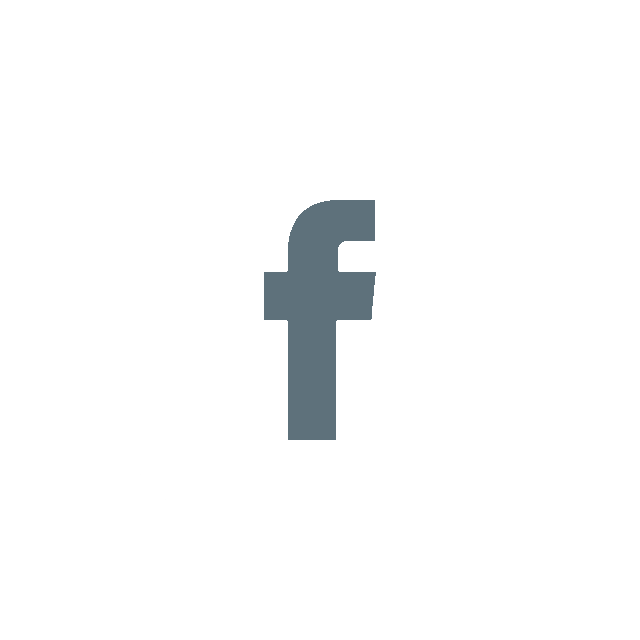
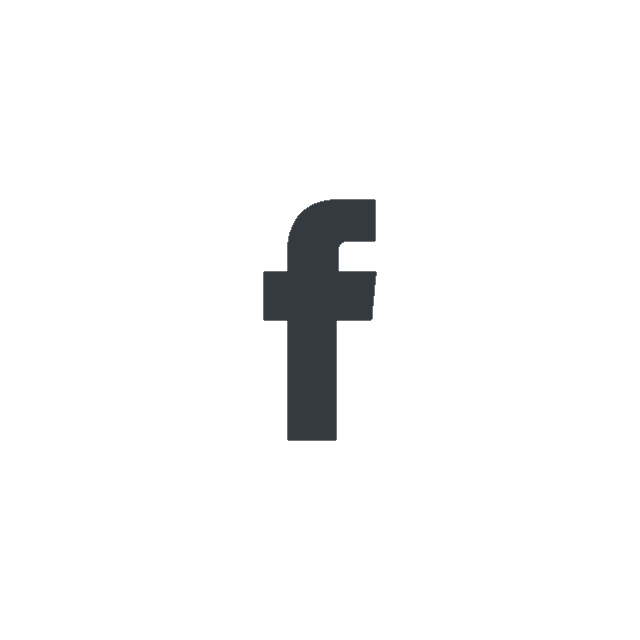
footer en kleuren priest/rogue aangepast

Changed region(s): [[0.4062, 0.3125, 0.5938, 0.6875]]

diff --git a/index.html b/index.html
@@ -87,9 +87,14 @@
             </div>
         </div>
         <footer class="footer">
-            <img src="img/social_email.png" height="30px">
-            <img src="img/social_facebook3.png" height="30px">
-            <img src="img/social_twitter.png" height="30px">
+            <div class="row">
+                <div class="col-md-12 text-center">
+                    Kampany.nl (c) 
+                    <img src="img/social_email.png" height="30px">
+                    <img src="img/social_facebook3.png" height="30px">
+                    <img src="img/social_twitter.png" height="30px">
+                </div>
+            </div>
         </footer>
 </body>
 <script src="index.js"></script>

diff --git a/index.css b/index.css
@@ -33,12 +33,12 @@ body {
 }
 
 #Priest {
-    color: #FFF569;
+    color: #FFFFFF;
     font-weight: bolder;
 }
 
 #Rogue {
-    color: #FFFFFF;
+    color: #FFF569;
     font-weight: bolder;
 }
 
@@ -62,8 +62,9 @@ body {
     bottom: 0;
     width: 100%;
     height: 35px;
+    color: white;
     line-height: 30px;
     background: #343a40;
-    text-align: right;
+    /* text-align: right; */
     z-index: 1000;
   }

diff --git a/card.php b/card.php
@@ -149,11 +149,16 @@
                 </div>
             </div>
         </div>
-    <footer class="footer">
-        <img src="img/social_email.png" height="30px">
-        <img src="img/social_facebook3.png" height="30px">
-        <img src="img/social_twitter.png" height="30px">
-    </footer>
+        <footer class="footer">
+            <div class="row">
+                <div class="col-md-12 text-center">
+                    Kampany.nl (c) 
+                    <img src="img/social_email.png" height="30px">
+                    <img src="img/social_facebook3.png" height="30px">
+                    <img src="img/social_twitter.png" height="30px">
+                </div>
+            </div>
+        </footer>
 </body>
 <script src="index.js"></script>
 </html>

diff --git a/set.php b/set.php
@@ -81,10 +81,15 @@
         </div>
     </div>
     <footer class="footer">
-        <img src="img/social_email.png" height="30px">
-        <img src="img/social_facebook3.png" height="30px">
-        <img src="img/social_twitter.png" height="30px">
-    </footer>
+            <div class="row">
+                <div class="col-md-12 text-center">
+                    Kampany.nl (c) 
+                    <img src="img/social_email.png" height="30px">
+                    <img src="img/social_facebook3.png" height="30px">
+                    <img src="img/social_twitter.png" height="30px">
+                </div>
+            </div>
+        </footer>
 </body>
 <script src="index.js"></script>
 </html>
